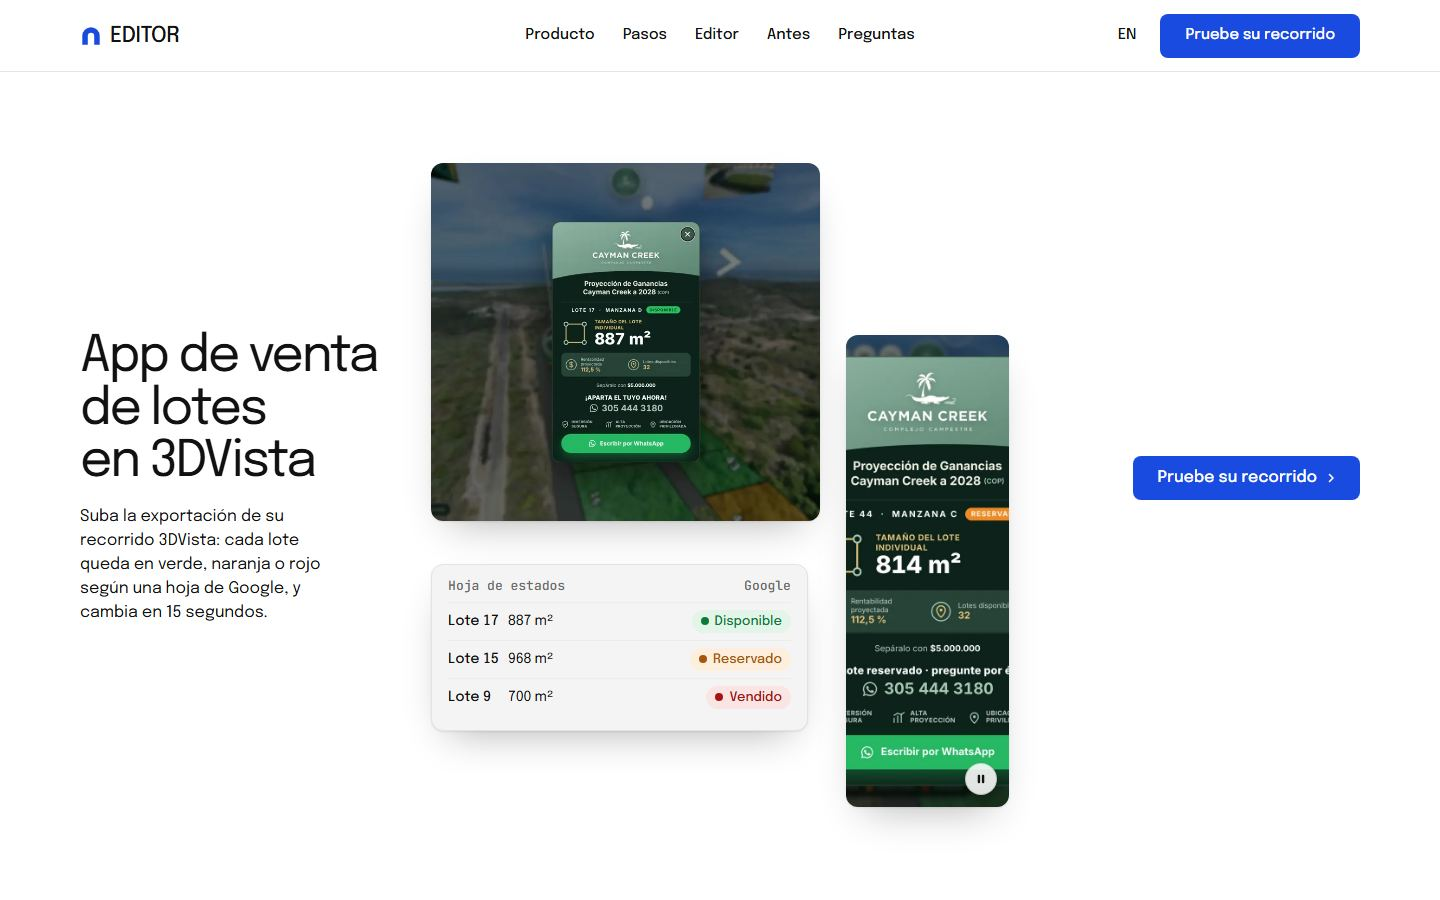
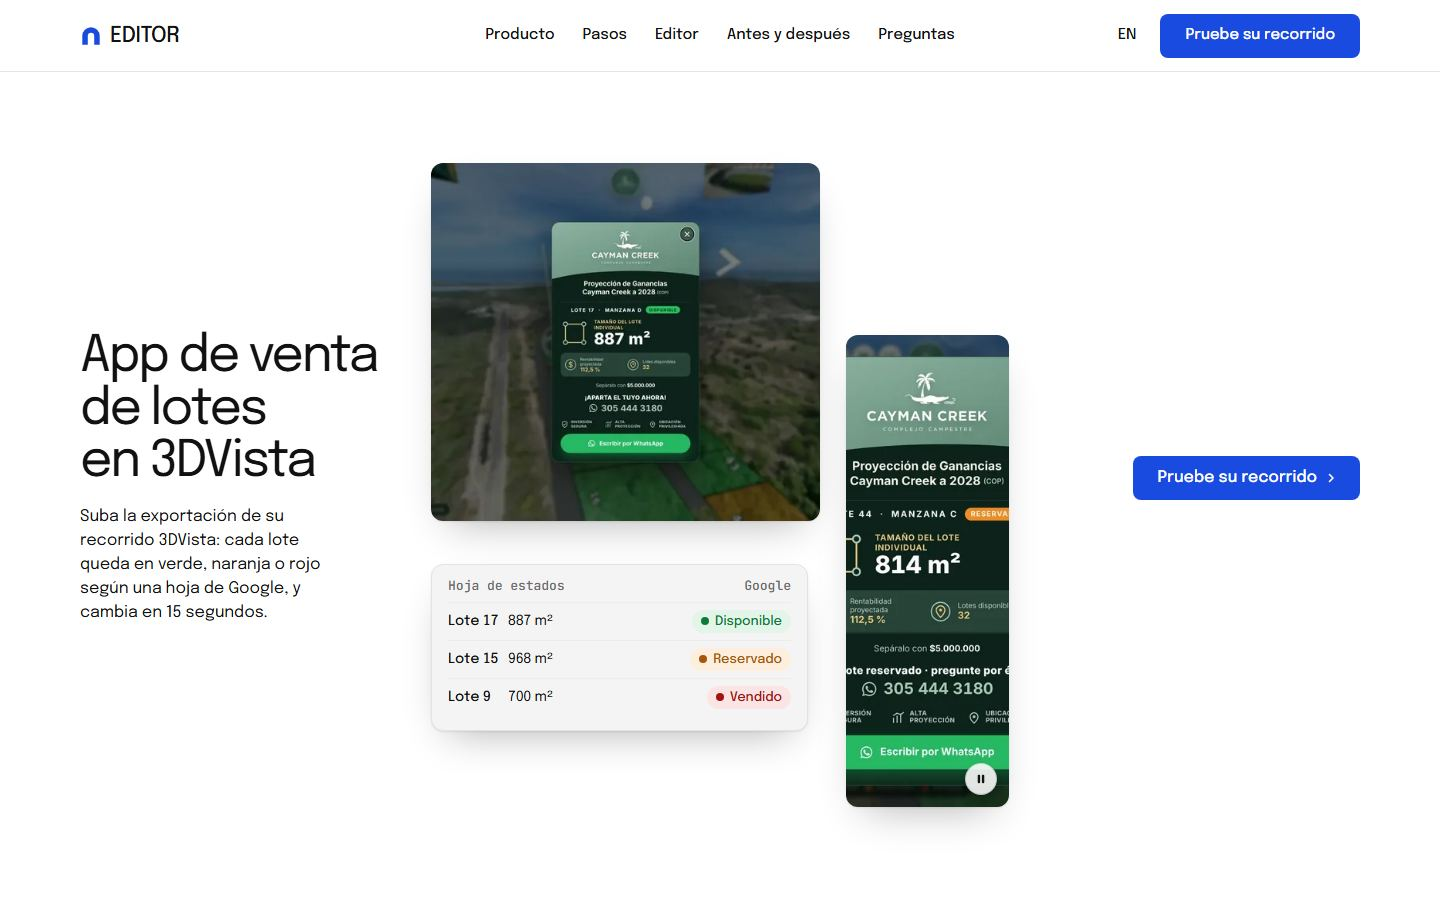
Página de venta: correo real, tableta y teléfono, imágenes livianas
- Contacto a ultramediaco1@gmail.com.
- Tableta y teléfono: el collage se apila, cada sección cabe en sus
  pantallas, la ventana del producto ya no tapa la lista.
- Imágenes con medidas y versiones de 720 px para pantallas chicas.
- Revisión del kit en 1440, 1024, 820, 768 y 390: solo quedan las
  excepciones justificadas; GATE: PASS y velocidad sin fallas.

diff --git a/docs/producto/index.html b/docs/producto/index.html
@@ -84,7 +84,7 @@
   .app__row { height: 52px; border-bottom: 1px solid var(--u-line); font: 400 15px/1.2 var(--font-text); font-variant-numeric: tabular-nums; }
   .app__row b { font-weight: 500; }
   .app__row.is-new { background: #f4f7ff; }
-  .app__pane--open img { width: 100%; height: 100%; object-fit: cover; object-position: 30% 60%; display: block; }
+  .app__pane--open img { position: absolute; inset: 0; width: 100%; height: 100%; object-fit: cover; object-position: 30% 60%; display: block; }
   @media (min-width: 1024px) and (max-width: 1279px) { .app.ui { grid-template-columns: minmax(0, 4fr) minmax(0, 8fr); } .app__cols, .app__row { grid-template-columns: 52px 1fr auto; } .app__cols > :nth-child(3), .app__row > :nth-child(3) { display: none; } }
   @media (max-width: 1023px) {
     .app.ui { grid-template-columns: minmax(0, 1fr); grid-template-rows: auto minmax(0, 1fr); }
@@ -95,7 +95,7 @@
   @media (max-width: 639px) { .app.ui { grid-template-rows: minmax(0, 1fr); } .app > .app__pane--list { display: none; } .app > .app__pane + .app__pane { border-top: 0; } }
 
   /* paneles de los pasos */
-  #pasos .panel { --p-h: 232px; }
+  #pasos .panel { --p-h: 276px; }
   .panel .pc-hoja, .panel .pc-veredicto { position: absolute; left: 24px; right: 24px; top: 24px; }
   .panel .shot { position: absolute; inset: 0; width: 100%; height: 100%; object-fit: cover; object-position: 50% 42%; }
   
@@ -119,6 +119,7 @@
   /* antes y después */
   .par { display: grid; grid-template-columns: repeat(2, minmax(0, 1fr)); gap: var(--s-5); margin-top: var(--s-7); }
   .par img { width: 100%; aspect-ratio: 2 / 1; object-fit: cover; border-radius: var(--r-lg); display: block; }
+  @media (min-width: 1024px) and (max-width: 1279px) { .par img { aspect-ratio: 3 / 2; } }
   @media (max-width: 639px) { .par { grid-template-columns: 1fr; gap: var(--s-4); } }
 
   .idioma-b { font: 500 15px/1 var(--font-text); background: none; border: 0; padding: 0 8px; min-height: 44px; color: var(--ink); cursor: pointer; }
@@ -126,6 +127,28 @@
   .hero--triptych .hero__cta .btn { height: var(--btn-h); font: 500 16px/1 var(--font-text); letter-spacing: 0; padding-inline: var(--s-5); }
   #editor .frame--split { --ratio: 100%; }
   .mo-la__sub { color: var(--ink); }
+  /* tableta (640 a 1023): cada sección en sus pantallas */
+  @media (min-width: 640px) and (max-width: 1023px) {
+    #pasos { --h: 2; }
+    #pasos .panel { width: 48%; }
+    #editor .frame--split { --ratio: 50%; }
+    .par { grid-template-columns: 1fr; }
+    .par img { aspect-ratio: 5 / 2; }
+  }
+  /* bajo 1024 el collage se apila: la imagen arriba a todo lo ancho y la pieza de datos debajo */
+  @media (max-width: 1023px) {
+    .ly-collage .pz-a, .ly-collage .pz-d { left: 0 !important; top: 0 !important; width: 100% !important; height: 56% !important; }
+    .ly-collage .pz-c, .ly-collage .pz-g { left: 0 !important; top: 62% !important; width: 49% !important; height: auto !important; }
+    .ly-collage .pz-b, .ly-collage .pz-e, .ly-collage .pz-f { display: none; }
+    .app__pane--list .app__row:nth-of-type(n+6) { display: none; }
+  }
+  #pasos { --hm: 2; }
+  @media (max-width: 639px) {
+    .ly-collage .pz-c, .ly-collage .pz-g { display: none; }
+    .ly-collage .pz-a, .ly-collage .pz-d { height: 100% !important; }
+    #editor .frame--split { --ratio: 60%; }
+    #preguntas .faq-intro, #preguntas [data-movil="oculto"] { display: none; }
+  }
   @media (max-width: 639px) { .ly-collage .pc-hoja .f { grid-template-columns: 1fr auto; } .ly-collage .pc-hoja .f > span:nth-child(2) { display: none; } #estado .mo-la__type { font-size: 84px; } #estado .mo-la__sub { font-size: 20px; } #pasos .panel { --p-h: 168px; } }
 </style>
 </head>
@@ -143,7 +166,7 @@
       <div class="nav__item"><a class="nav__link" href="#producto" data-en="Product">Producto</a></div>
       <div class="nav__item"><a class="nav__link" href="#pasos" data-en="Steps">Pasos</a></div>
       <div class="nav__item"><a class="nav__link" href="#editor">Editor</a></div>
-      <div class="nav__item"><a class="nav__link" href="#antes" data-en="Before">Antes</a></div>
+      <div class="nav__item"><a class="nav__link" href="#antes" data-en="Before and after">Antes y después</a></div>
       <div class="nav__item"><a class="nav__link" href="#preguntas" data-en="Questions">Preguntas</a></div>
     </nav>
     <div class="nav__actions">
@@ -165,9 +188,9 @@
       </div>
       <div class="ly-collage span-6 start-4" role="img" aria-label="El recorrido de Cayman Creek con sus lotes de colores, la ficha de un lote en el teléfono y la hoja de estados que los controla" data-en-label="The Cayman Creek tour with its coloured lots, a lot's card on a phone and the status sheet that drives them">
         <div class="ly-collage__set is-on">
-          <div class="ly-piece" style="left: 4%; top: 6%; width: 62%; height: 50%"><img src="img/03-ficha-lote-disponible.webp" alt="" style="object-position: 50% 45%" data-source="client" data-subject="ficha de un lote disponible sobre el recorrido"></div>
-          <div class="ly-piece" style="left: 70%; top: 30%; width: 26%; height: 66%"><img src="img/13-telefono-ficha.webp" alt="" style="object-position: 50% 40%" data-source="client" data-subject="ficha de un lote en el teléfono"></div>
-          <div class="ly-piece pc-hoja" style="left: 4%; top: 62%; width: 60%">
+          <div class="ly-piece pz-a" style="left: 4%; top: 6%; width: 62%; height: 50%"><img src="img/03-ficha-lote-disponible.webp" srcset="img/03-ficha-lote-disponible-720.webp 720w, img/03-ficha-lote-disponible.webp 1100w" sizes="(max-width: 1023px) 100vw, 45vw" width="1100" height="688" alt="" style="object-position: 50% 45%" data-source="client" data-subject="ficha de un lote disponible sobre el recorrido"></div>
+          <div class="ly-piece pz-b" style="left: 70%; top: 30%; width: 26%; height: 66%"><img src="img/13-telefono-ficha.webp" srcset="img/13-telefono-ficha-360.webp 360w, img/13-telefono-ficha.webp 640w" sizes="(max-width: 1023px) 30vw, 180px" width="640" height="1090" alt="" style="object-position: 50% 40%" data-source="client" data-subject="ficha de un lote en el teléfono"></div>
+          <div class="ly-piece pz-c pc-hoja ui" style="left: 4%; top: 62%; width: 60%">
             <div class="t"><span data-en="Status sheet">Hoja de estados</span><span>Google</span></div>
             <div class="f"><b data-en="Lot 17">Lote 17</b><span>887 m²</span><span class="st st--d" data-en="Available">Disponible</span></div>
             <div class="f"><b data-en="Lot 15">Lote 15</b><span>968 m²</span><span class="st st--r" data-en="Reserved">Reservado</span></div>
@@ -175,13 +198,13 @@
           </div>
         </div>
         <div class="ly-collage__set" aria-hidden="true">
-          <div class="ly-piece" style="left: 4%; top: 6%; width: 58%; height: 52%"><img src="img/08-plano-maestro.webp" alt="" style="object-position: 50% 50%" data-source="client" data-subject="plano maestro dentro del aplicativo"></div>
-          <div class="ly-piece" style="left: 66%; top: 6%; width: 30%; height: 44%"><img src="img/tableta-ficha.webp" alt="" style="object-position: 50% 40%" data-source="client" data-subject="ficha de un lote en una tableta"></div>
-          <div class="ly-piece pc-lotes" style="left: 4%; top: 64%; width: 40%">
+          <div class="ly-piece pz-d" style="left: 4%; top: 6%; width: 58%; height: 52%"><img src="img/08-plano-maestro.webp" srcset="img/08-plano-maestro-720.webp 720w, img/08-plano-maestro.webp 1100w" sizes="(max-width: 1023px) 100vw, 45vw" width="1100" height="688" alt="" style="object-position: 50% 50%" data-source="client" data-subject="plano maestro dentro del aplicativo"></div>
+          <div class="ly-piece pz-e" style="left: 66%; top: 6%; width: 30%; height: 44%"><img src="img/tableta-ficha.webp" width="548" height="382" alt="" style="object-position: 50% 40%" data-source="client" data-subject="ficha de un lote en una tableta"></div>
+          <div class="ly-piece pz-f pc-lotes ui" style="left: 4%; top: 64%; width: 40%">
             <span class="t">Cayman Creek</span>
             <div class="rejilla"><i>11</i><i class="v">12</i><i>13</i><i>14</i><i class="r">15</i><i>16</i><i>17</i><i class="v">18</i><i>19</i><i>20</i></div>
           </div>
-          <div class="ly-piece pc-veredicto" style="left: 50%; top: 56%; width: 46%; height: 40%">
+          <div class="ly-piece pz-g pc-veredicto ui" style="left: 50%; top: 56%; width: 46%; height: 40%">
             <span class="ok" data-en="Compatible tour">Recorrido compatible</span>
             <dl><dt data-en="Lots found">Lotes encontrados</dt><dd>45</dd><dt data-en="Aerial views">Vistas aéreas</dt><dd>2</dd><dt data-en="Blocks">Manzanas</dt><dd>4</dd></dl>
           </div>
@@ -196,8 +219,8 @@
       <div class="grid">
         <h2 class="span-5" id="producto-h" data-en="Every lot in the tour, with its status">Cada lote del recorrido, con su estado</h2>
         <div class="span-6 start-7 stack-4">
-          <p data-en="On the left, the Cayman Creek status sheet; on the right, the tour its buyers see. A change in the sheet reaches the tour within 15 seconds.">A la izquierda, la hoja de estados de Cayman Creek; a la derecha, el recorrido que ven sus compradores. Un cambio en la hoja llega al recorrido en 15 segundos.</p>
-          <a class="link" href="../cayman-creek/index.htm" data-en="Open Cayman Creek live">Abrir Cayman Creek en vivo</a>
+          <p data-en="The Cayman Creek status sheet and the tour its buyers see: a change in the sheet reaches the tour within 15 seconds.">La hoja de estados de Cayman Creek y el recorrido que ven sus compradores: un cambio en la hoja llega al recorrido en 15 segundos.</p>
+          <a class="link" href="../cayman-creek/index.htm" data-en="See the demo">Ver la demo</a>
         </div>
       </div>
       <div class="ui app fill" role="img" aria-label="La hoja de estados de Cayman Creek junto al recorrido aéreo con los lotes pintados según esa hoja" data-en-label="The Cayman Creek status sheet beside the aerial tour with the lots painted from that sheet">
@@ -216,12 +239,12 @@
           <div class="app__row"><b>41</b><span>C</span><span>933 m²</span><span class="st st--d" data-en="Available">Disponible</span></div>
           <div class="app__row"><b>44</b><span>C</span><span>814 m²</span><span class="st st--d" data-en="Available">Disponible</span></div>
         </div>
-        <div class="app__pane app__pane--open"><img src="img/10-vista-aerea-2.webp" alt="" data-source="client" data-subject="vista aérea 2 de Cayman Creek con lotes por estado"></div>
+        <div class="app__pane app__pane--open"><img src="img/10-vista-aerea-2.webp" srcset="img/10-vista-aerea-2-720.webp 720w, img/10-vista-aerea-2.webp 1100w" sizes="(max-width: 1023px) 100vw, 45vw" width="1100" height="688" loading="lazy" alt="" data-source="client" data-subject="vista aérea 2 de Cayman Creek con lotes por estado"></div>
       </div>
     </div>
   </section>
 
-  <section class="section" id="pasos" style="--h: 1; --hm: 2" aria-labelledby="pasos-h">
+  <section class="section" id="pasos" aria-labelledby="pasos-h">
     <div class="wrap">
       <div class="section-head">
         <h2 id="pasos-h" data-en="Your tour on sale in 3 steps">Su recorrido en venta en 3 pasos</h2>
@@ -230,9 +253,9 @@
         <article class="card card--row card--open span-4">
           <span class="step-num">1</span>
           <h3 class="t-card" data-en="Upload the 3DVista export">Suba la exportación de 3DVista</h3>
-          <p data-en="The platform checks the .zip in your browser and finds the polygons named “rojo 1”, “rojo 2”…">La plataforma revisa el .zip en su navegador y encuentra los polígonos llamados «rojo 1», «rojo 2»…</p>
+          <p data-en="The platform checks the .zip in your browser and finds every lot.">La plataforma revisa el .zip en su navegador y encuentra cada lote.</p>
           <div class="panel">
-            <div class="pc-veredicto">
+            <div class="pc-veredicto ui">
               <span class="ok" data-en="Compatible tour">Recorrido compatible</span>
               <dl><dt data-en="Lots found">Lotes encontrados</dt><dd>45</dd><dt data-en="Blocks detected">Manzanas detectadas</dt><dd>33 / 45</dd><dt data-en="To review by hand">Por revisar a mano</dt><dd>12</dd></dl>
             </div>
@@ -243,7 +266,7 @@
           <h3 class="t-card" data-en="Connect the status sheet">Conecte la hoja de estados</h3>
           <p data-en="A Google sheet with the lot and its status. Whoever edits it changes the lot’s colour.">Una hoja de Google con el lote y su estado. Quien la edite cambia el color del lote.</p>
           <div class="panel">
-            <div class="pc-hoja">
+            <div class="pc-hoja ui">
               <div class="t"><span data-en="lot, status">lote, estado</span><span>CSV</span></div>
               <div class="f"><b>41</b><span></span><span class="st st--d" data-en="Available">Disponible</span></div>
               <div class="f"><b>44</b><span></span><span class="st st--r" data-en="Reserved">Reservado</span></div>
@@ -254,8 +277,8 @@
         <article class="card card--row card--open span-4">
           <span class="step-num">3</span>
           <h3 class="t-card" data-en="Publish the app">Publique el aplicativo</h3>
-          <p data-en="A static site for any hosting, with a card for every lot and a WhatsApp button.">Sale un sitio estático para cualquier hosting, con la ficha de cada lote y el botón de WhatsApp.</p>
-          <div class="panel"><img class="shot" src="img/04-ficha-lote-reservado.webp" alt="La ficha de un lote reservado de Cayman Creek, con su área y el botón de WhatsApp" data-en-alt="The card of a reserved Cayman Creek lot, with its area and the WhatsApp button" data-source="client" data-subject="ficha de lote reservado"></div>
+          <p data-en="A static site with a card for every lot and a WhatsApp button.">Sale un sitio estático con la ficha de cada lote y botón de WhatsApp.</p>
+          <div class="panel"><img class="shot" src="img/04-ficha-lote-reservado.webp" srcset="img/04-ficha-lote-reservado-720.webp 720w, img/04-ficha-lote-reservado.webp 1100w" sizes="(max-width: 1023px) 100vw, 45vw" width="1100" height="688" loading="lazy" alt="La ficha de un lote reservado de Cayman Creek, con su área y el botón de WhatsApp" data-en-alt="The card of a reserved Cayman Creek lot, with its area and the WhatsApp button" data-source="client" data-subject="ficha de lote reservado"></div>
         </article>
       </div>
     </div>
@@ -274,8 +297,7 @@
         <div class="span-5 stack-4">
           <h2 id="editor-h" data-en="The editor changes statuses inside the .zip">El editor cambia estados dentro del .zip</h2>
           <p class="t-lead" data-en="For tours already published: the editor changes lot statuses and the WhatsApp number inside the tour’s own files.">Para recorridos ya publicados: el editor cambia estados y WhatsApp dentro de los archivos del propio recorrido.</p>
-          <p data-en="In Cayman Creek 3,059 entries go in and 3,059 come out, in the same order.">En Cayman Creek entran 3.059 entradas y salen 3.059, en el mismo orden.</p>
-          <p data-en="Everything runs in your browser: the .zip is not uploaded anywhere.">Todo ocurre en su navegador: el .zip no se sube a ningún lado.</p>
+          <p data-en="In Cayman Creek 3,059 entries go in and 3,059 come out, in the same order, and nothing is uploaded: it all runs in your browser.">En Cayman Creek entran 3.059 entradas y salen 3.059, en el mismo orden, y nada se sube: todo ocurre en su navegador.</p>
           <a class="link" href="../index.html#editar" data-en="Open the editor">Abrir el editor</a>
         </div>
         <div class="frame frame--split span-6 start-7">
@@ -297,12 +319,12 @@
   <section class="section" id="antes" aria-labelledby="antes-h">
     <div class="wrap">
       <div class="grid">
-        <h2 class="span-5" id="antes-h" data-en="From the 3DVista export to a sales app">Del recorrido exportado al aplicativo de venta</h2>
-        <p class="span-6 start-7" data-en="Left, the tour as 3DVista exports it. Right, the same tour with lot statuses, labels that follow the camera and its own loading screen.">A la izquierda, el recorrido como lo exporta 3DVista. A la derecha, el mismo recorrido con estados de lote, etiquetas que siguen la cámara y su propia pantalla de carga.</p>
+        <h2 class="span-5" id="antes-h" data-en="Before and after in Cayman Creek">Antes y después en Cayman Creek</h2>
+        <p class="span-6 start-7" data-en="Left, the lots as 3DVista exports them. Right, the same lots in the EDITOR app, painted by their status.">A la izquierda, los lotes como los exporta 3DVista. A la derecha, los mismos lotes en el aplicativo de EDITOR, pintados según su estado.</p>
       </div>
       <div class="par">
-        <img src="img/antes-lotes.webp" alt="Los lotes 15, 16 y 41 a 44 de Cayman Creek como salen de 3DVista, sin estado" data-en-alt="Cayman Creek lots 15, 16 and 41 to 44 as exported by 3DVista, with no status" data-source="client" data-subject="recorrido exportado" loading="lazy">
-        <img src="img/despues-lotes.webp" alt="La misma vista en el aplicativo de EDITOR, con los lotes en verde, naranja y rojo" data-en-alt="The same view in the EDITOR app, with lots in green, orange and red" data-source="client" data-subject="aplicativo de venta" loading="lazy">
+        <img src="img/antes-lotes.webp" srcset="img/antes-lotes-720.webp 720w, img/antes-lotes.webp 1000w" sizes="(max-width: 1023px) 100vw, 45vw" width="1000" height="400" alt="Los lotes 15, 16 y 41 a 44 de Cayman Creek como salen de 3DVista, sin estado" data-en-alt="Cayman Creek lots 15, 16 and 41 to 44 as exported by 3DVista, with no status" data-source="client" data-subject="recorrido exportado" loading="lazy">
+        <img src="img/despues-lotes.webp" srcset="img/despues-lotes-720.webp 720w, img/despues-lotes.webp 1000w" sizes="(max-width: 1023px) 100vw, 45vw" width="1000" height="400" alt="La misma vista en el aplicativo de EDITOR, con los lotes en verde, naranja y rojo" data-en-alt="The same view in the EDITOR app, with lots in green, orange and red" data-source="client" data-subject="aplicativo de venta" loading="lazy">
       </div>
     </div>
   </section>
@@ -312,13 +334,13 @@
       <div class="grid">
         <div class="span-5 stack-4">
           <h2 id="preguntas-h" data-en="Questions">Preguntas</h2>
-          <p data-en="What 3DVista studios and developers ask before trying it.">Lo que preguntan los estudios de 3DVista y las constructoras antes de probarlo.</p>
+          <p class="faq-intro" data-en="What 3DVista studios and developers ask first.">Lo primero que preguntan estudios y constructoras.</p>
           <a class="link" href="mailto:ultramediaco1@gmail.com?subject=EDITOR" data-en="Write to us">Escríbanos</a>
         </div>
         <div class="faq span-6 start-7">
-          <div class="faq__item"><h3 data-en="What do I need from 3DVista?">¿Qué necesito de 3DVista?</h3><p data-en="The web export of the tour, with each lot drawn as a polygon named “rojo 1”, “rojo 2” and so on.">La exportación web del recorrido, con cada lote dibujado como un polígono llamado «rojo 1», «rojo 2» y así.</p></div>
+          <div class="faq__item"><h3 data-en="What do I need from 3DVista?">¿Qué necesito de 3DVista?</h3><p data-en="The web export, with each lot as a polygon named “rojo 1”, “rojo 2”…">La exportación web, con cada lote como un polígono llamado «rojo 1», «rojo 2»…</p></div>
           <div class="faq__item"><h3 data-en="Are my files uploaded to a server?">¿Mis archivos se suben a un servidor?</h3><p data-en="No. The check and the editor open the .zip in your browser.">No. El análisis y el editor abren el .zip en su navegador.</p></div>
-          <div class="faq__item"><h3 data-en="Who changes the lot statuses?">¿Quién cambia los estados de los lotes?</h3><p data-en="Anyone with edit access to the Google sheet: sales, the developer or the agency.">Cualquiera con permiso para editar la hoja de Google: el equipo de ventas, la constructora o la agencia.</p></div>
+          <div class="faq__item" data-movil="oculto"><h3 data-en="Who changes the lot statuses?">¿Quién cambia los estados de los lotes?</h3><p data-en="Anyone with edit access to the Google sheet.">Cualquiera con permiso para editar la hoja de Google.</p></div>
           <div class="faq__item"><h3 data-en="Does it detect every block on its own?">¿Detecta solo todas las manzanas?</h3><p data-en="Not always. In Cayman Creek it placed 33 of 45 lots in their block; the rest are checked by hand.">No siempre. En Cayman Creek ubicó 33 de los 45 lotes en su manzana; el resto se revisa a mano.</p></div>
                     <div class="faq__item"><h3 data-en="How much does it cost?">¿Cuánto cuesta?</h3><p data-en="The price depends on the project. Write to us with the number of lots and views.">El precio depende del proyecto. Escríbanos con el número de lotes y de vistas.</p></div>
         </div>
@@ -327,8 +349,8 @@
   </section>
 </main>
 
-<footer class="footer closing" id="contact" aria-labelledby="close-h">
-  <div class="wrap">
+<footer class="footer closing" id="contact" style="--hm: 2" aria-labelledby="close-h">
+  <div class="wrap g2m">
     <div class="closing__cta close--word">
       <div class="section-head--split">
         <div><h2 id="close-h" data-en="Put your 3DVista project on sale">Ponga en venta su proyecto 3DVista</h2><p class="t-lead" data-en="The check runs in your browser and takes a few seconds.">El análisis corre en su navegador y tarda unos segundos.</p></div>
